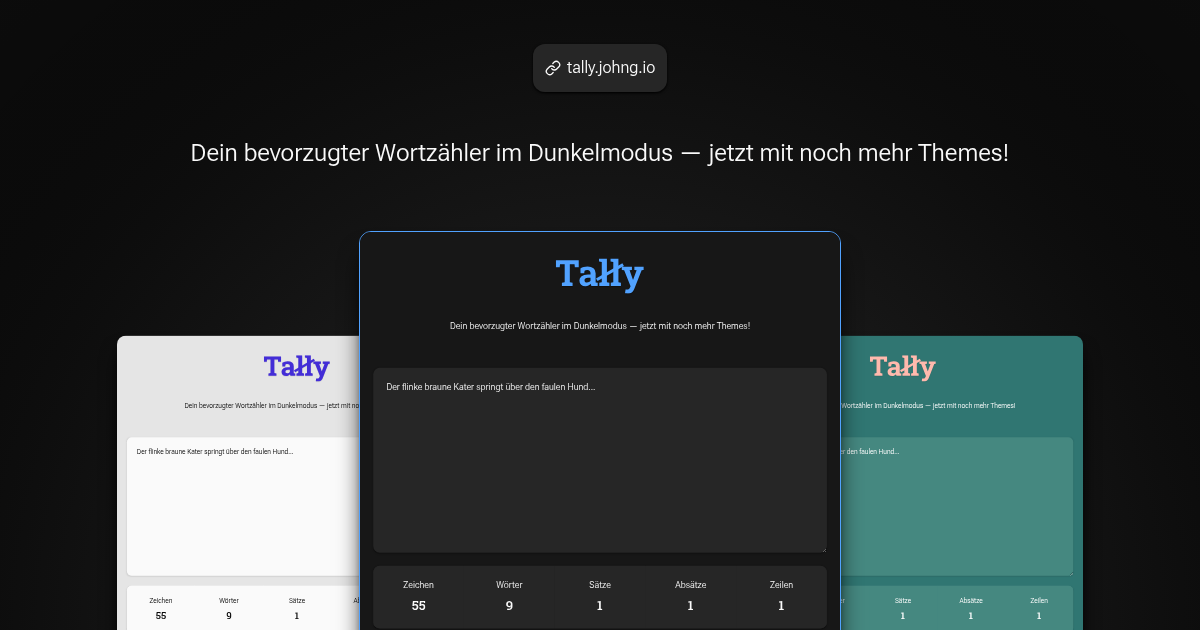
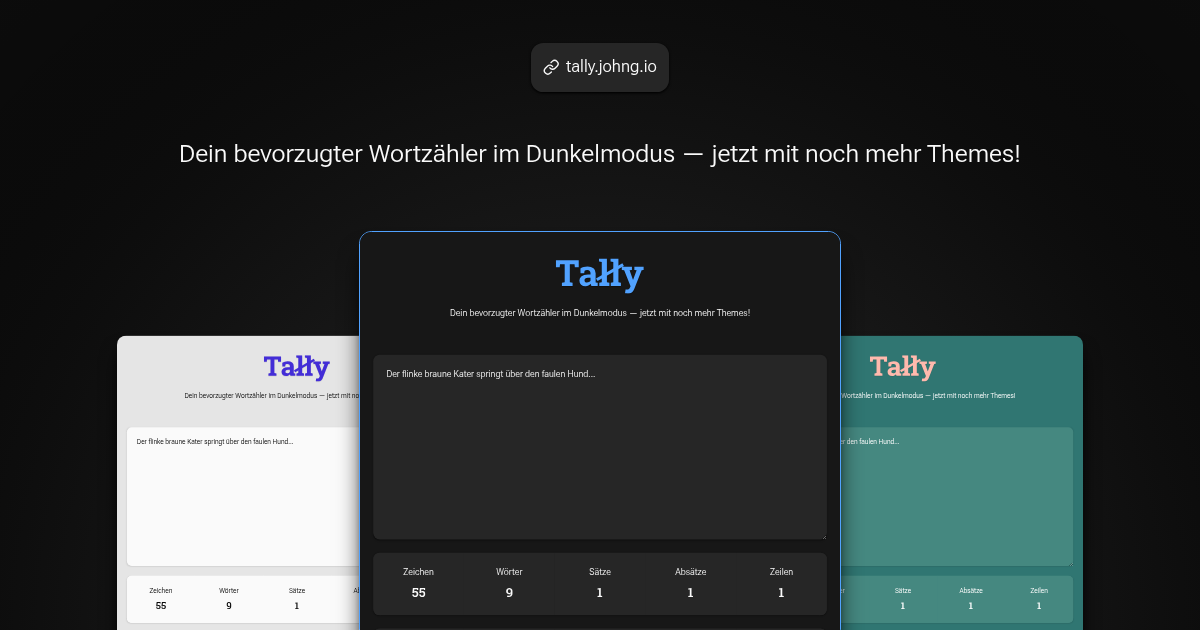
feat: generate vertical social media preview images (#157)
* refactor: compute CSS vars from other vars and switch to em units

* feat: add Icon component

* refactor: add includeInHead prop to social preview config, remove id prop, add story config entry

* fix: remove gap in Header

* feat: add support for includeInHead to SocialImageMetadata

* feat: combine preview page and SocialImageLayout

* feat: update config transformer to generate multiple image entries per page

* fix: iframe URLS in preview page

* feat: font size on preview page

* feat: add story social images

diff --git a/src/config-transformer.ts b/src/config-transformer.ts
@@ -1,54 +1,8 @@
-import { cartesianProduct, objectify } from 'radashi';
-import { LOCALE, type LocaleId } from './config/locale.ts';
+import { mapEntries } from 'radashi';
+import { LOCALE } from './config/locale.ts';
 import { SITE } from './config/site.ts';
-import {
-	SOCIAL_PREVIEW,
-	type SocialPreviewId,
-} from './config/social-preview.ts';
+import { SOCIAL_PREVIEW } from './config/social-preview.ts';
 import { keysOf } from './utils/index.ts';
-
-/**
- * Creates a page configuration entry for screenshot generation.
- *
- * @param keys - A tuple containing the locale ID and social preview type
- * @returns A configuration entry with the route path and output settings (path, dimensions)
- */
-function keysToPagesConfigEntry([localeId, socialPreviewId]: [
-	LocaleId,
-	SocialPreviewId,
-]) {
-	const { width, height } = SOCIAL_PREVIEW.map[socialPreviewId];
-
-	return [
-		`/${localeId}/${SOCIAL_PREVIEW.id}/${socialPreviewId}/`,
-		{
-			outputPath: `${SITE.srcDir}/images/${SOCIAL_PREVIEW.id}/${localeId}/${socialPreviewId}.png`,
-			width,
-			height,
-		},
-	] as const;
-}
-
-/**
- * Generates the complete configuration map for all social preview screenshots.
- *
- * Creates a Cartesian product of all locales and social preview types, then
- * maps each combination to its screenshot configuration.
- *
- * @returns A record mapping route paths to their screenshot configurations
- */
-function generatePageConfigMap() {
-	const keyMatrix = cartesianProduct(
-		keysOf(LOCALE.map),
-		keysOf(SOCIAL_PREVIEW.map),
-	);
-
-	return objectify(
-		keyMatrix.map(keysToPagesConfigEntry),
-		(entry) => entry[0],
-		(entry) => [entry[1]],
-	);
-}
 
 /**
  * Configuration for the Astro Snapshot integration.
@@ -56,7 +10,19 @@ function generatePageConfigMap() {
  * Defines which pages to screenshot and their output settings for social media previews.
  */
 export const ASTRO_SNAPSHOT_CONFIG = {
-	pages: generatePageConfigMap(),
+	pages: mapEntries(LOCALE.map, (localeId) => [
+		`/${localeId}/${SOCIAL_PREVIEW.id}/` as const,
+		keysOf(SOCIAL_PREVIEW.map).map((socialPreviewId) => {
+			const { width, height } = SOCIAL_PREVIEW.map[socialPreviewId];
+
+			return {
+				outputPath:
+					`${SITE.srcDir}/images/${SOCIAL_PREVIEW.id}/${localeId}/${socialPreviewId}.png` as const,
+				width,
+				height,
+			};
+		}),
+	]),
 } as const;
 
 const localIds = keysOf(LOCALE.map);

diff --git a/src/config/social-preview.ts b/src/config/social-preview.ts
@@ -1,12 +1,12 @@
 /**
  * Configuration for a single social preview.
  *
- * @property id - The identifier for the preview type (e.g., 'og' for Open Graph, 'twitter' for Twitter
+ * @property includeInHead - Whether to include this preview in the HTML head section
  * @property width - The width of the preview image in pixels
  * @property height - The height of the preview image in pixels
  */
 type SocialPreview = {
-	id: string;
+	includeInHead: boolean;
 	width: number;
 	height: number;
 };
@@ -28,14 +28,19 @@ type SocialPreviewConfig = {
 
 const socialPreviewMap = {
 	og: {
-		id: 'og',
+		includeInHead: true,
 		width: 1200,
 		height: 630,
 	},
 	twitter: {
-		id: 'twitter',
+		includeInHead: true,
 		width: 1200,
 		height: 675,
+	},
+	story: {
+		includeInHead: false,
+		width: 1080,
+		height: 1920,
 	},
 } as const satisfies SocialPreviewMap;
 
@@ -50,5 +55,4 @@ export const SOCIAL_PREVIEW = {
 /**
  * Union type of all valid social preview IDs ('og' | 'twitter').
  */
-export type SocialPreviewId =
-	(typeof socialPreviewMap)[keyof typeof socialPreviewMap]['id'];
+export type SocialPreviewId = keyof typeof socialPreviewMap;

diff --git a/src/styles/tokens.css b/src/styles/tokens.css
@@ -11,28 +11,29 @@
 	--o-md: 0.7;
 
 	/* Padding */
-	--p-xs: calc(var(--p-md) / 4);
+	--p-xs: calc(var(--p-sm) / 2);
 	--p-sm: calc(var(--p-md) / 2);
-	--p-md: 1.5rem;
+	--p-md: 1.5em;
 	--p-lg: calc(var(--p-md) * 2);
 
 	/* Font size */
-	--f-md: 1rem;
-	--f-lg: 1.5rem;
+	--f-md: 1em;
+	--f-lg: calc(var(--f-md) * 1.5);
+	--f-xl: calc(var(--f-lg) * 1.25);
 
 	/* Font weight */
 	--f-normal: 300;
-	--f-bold: 500;
-	--f-bolder: 700;
+	--f-bold: calc(var(--f-normal) + 200);
+	--f-bolder: calc(var(--f-bold) + 200);
 
 	/* Max width */
 	--max-w: 56rem;
 
 	/* Border width */
-	--b-md: 1px;
+	--b-md: 0.0625em;
 
 	/* Border radius */
-	--r-md: 0.75rem;
+	--r-md: var(--p-sm);
 
 	/* Transition duration */
 	--d-md: 0.125s;
